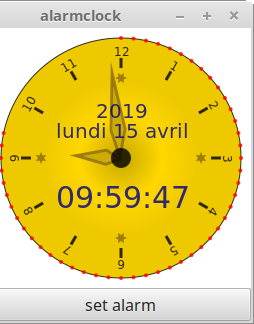
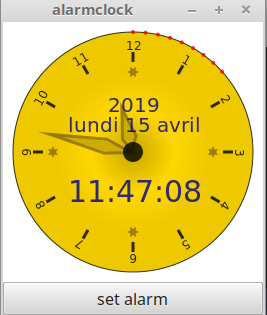
correct bug in neddle hour delta + change image name

Changed region(s): [[0.0, 0.0, 1.0, 1.0], [0.7717, 0.4571, 0.9094, 0.5143], [0.6339, 0.2, 0.689, 0.2571]]

diff --git a/README.md b/README.md
@@ -1,10 +1,10 @@
-![splash image](images/jAlarmClock.png)
+![splash image](images/jClock.png)
 
 # jAnalogAlarmClock
 analogic alarm clock Julia/Gtk/Luxor    
 
 
-unfortunatly binary is very very big and start time soooo long compared to the [Racket one](https://github.com/nodrygo/RktAlarmClock) 
+unfortunatly binary is very very big and start time soooo long compared to the [Racket one](https://github.com/nodrygo/RktAlarmClock)
 
 
 alarm not yet done
